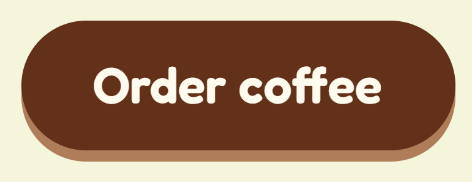
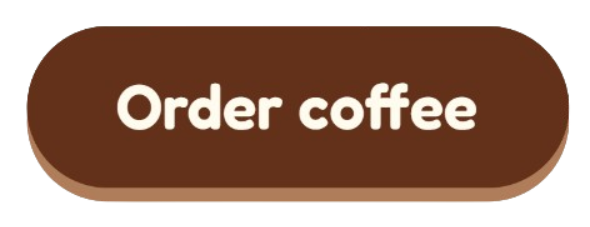
idk

diff --git a/week2project/style.css b/week2project/style.css
@@ -96,8 +96,33 @@ body {
 }
 
 .orderbutton {
-  size: 50px;
-  margin-left: center;
+  width: 50px;
+  height: 60px;
+  padding: 0;
+  margin-left: auto;
+  display: grid;
   place-items: center;
+  background: transparent;
+  border-radius: 20%;
+  cursor: pointer;
+  box-shadow: 0 3px 0 #B07D5B;
+  transition: transform 0.15s, box-shadow 0.15s;
+}
+
+.orderlink{
+  display: flex;
+  justify-content: center;
+  width: 100%;
+  background: none;
+  border: none;
+  padding: 0;
+  box-shadow: none;
   cursor: pointer;
 }
+
+.orderlink img {
+  display: block;
+  width: 250px;
+  border-radius: 20%;
+}
+

diff --git a/week2project/home.html b/week2project/home.html
@@ -31,9 +31,9 @@
   </head>
   <body>
     <div class="order">
-    <button class="orderbutton" aria-label="Order Now">
-      <img src="order.png" alt="" class="orderimage">
-    </button>
+      <a href="index.html" class="orderlink">
+    <img src="order.png" alt="Description">
+  </a>
     </div>
     <div class="footer">
       <p>© 2024 cosmic Coffee. All rights reserved.</p>

diff --git a/week2project/index.html b/week2project/index.html
@@ -10,6 +10,9 @@
   <button class="cartbutton" aria-label="Cart">
     <img src="cart.jpg" alt="" class="cartimage">
   </button>
+  <button class="orderbutton" aria-label="Order">
+    <img src="order.jpg" alt="" class="orderimage">
+  </button>
 </header>
 <div class="box">
   <Link rel="stylesheet" href="style.css">
